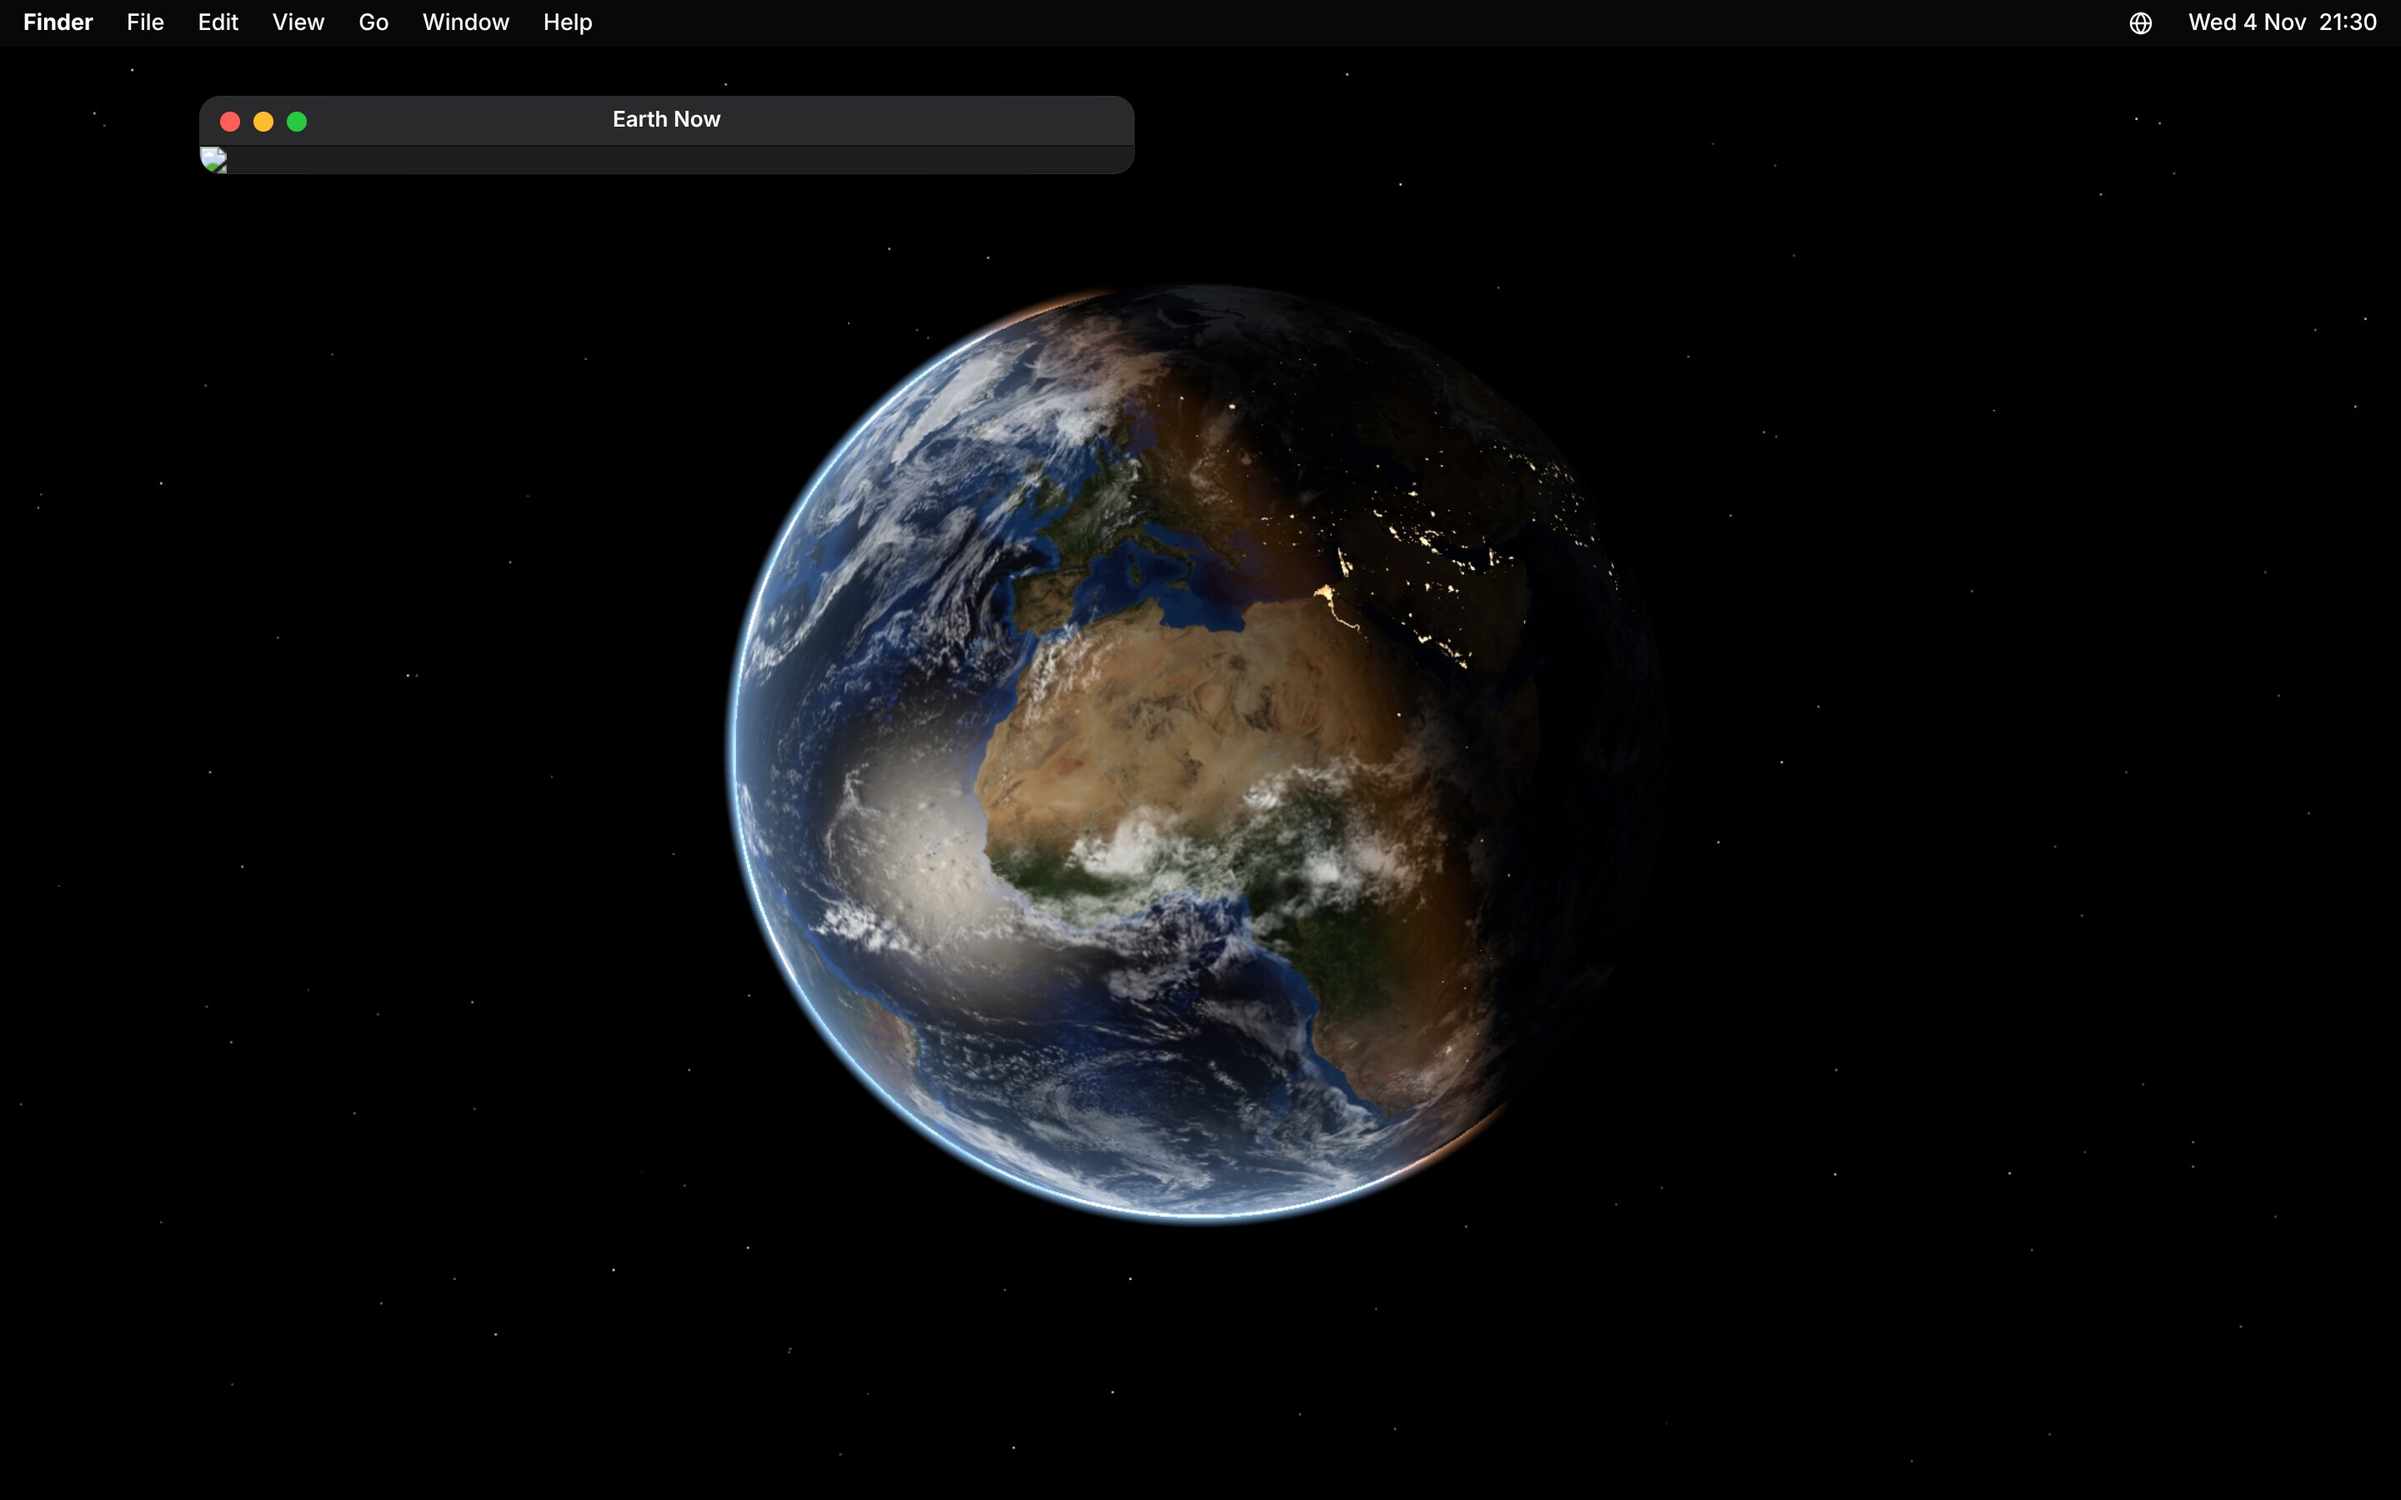
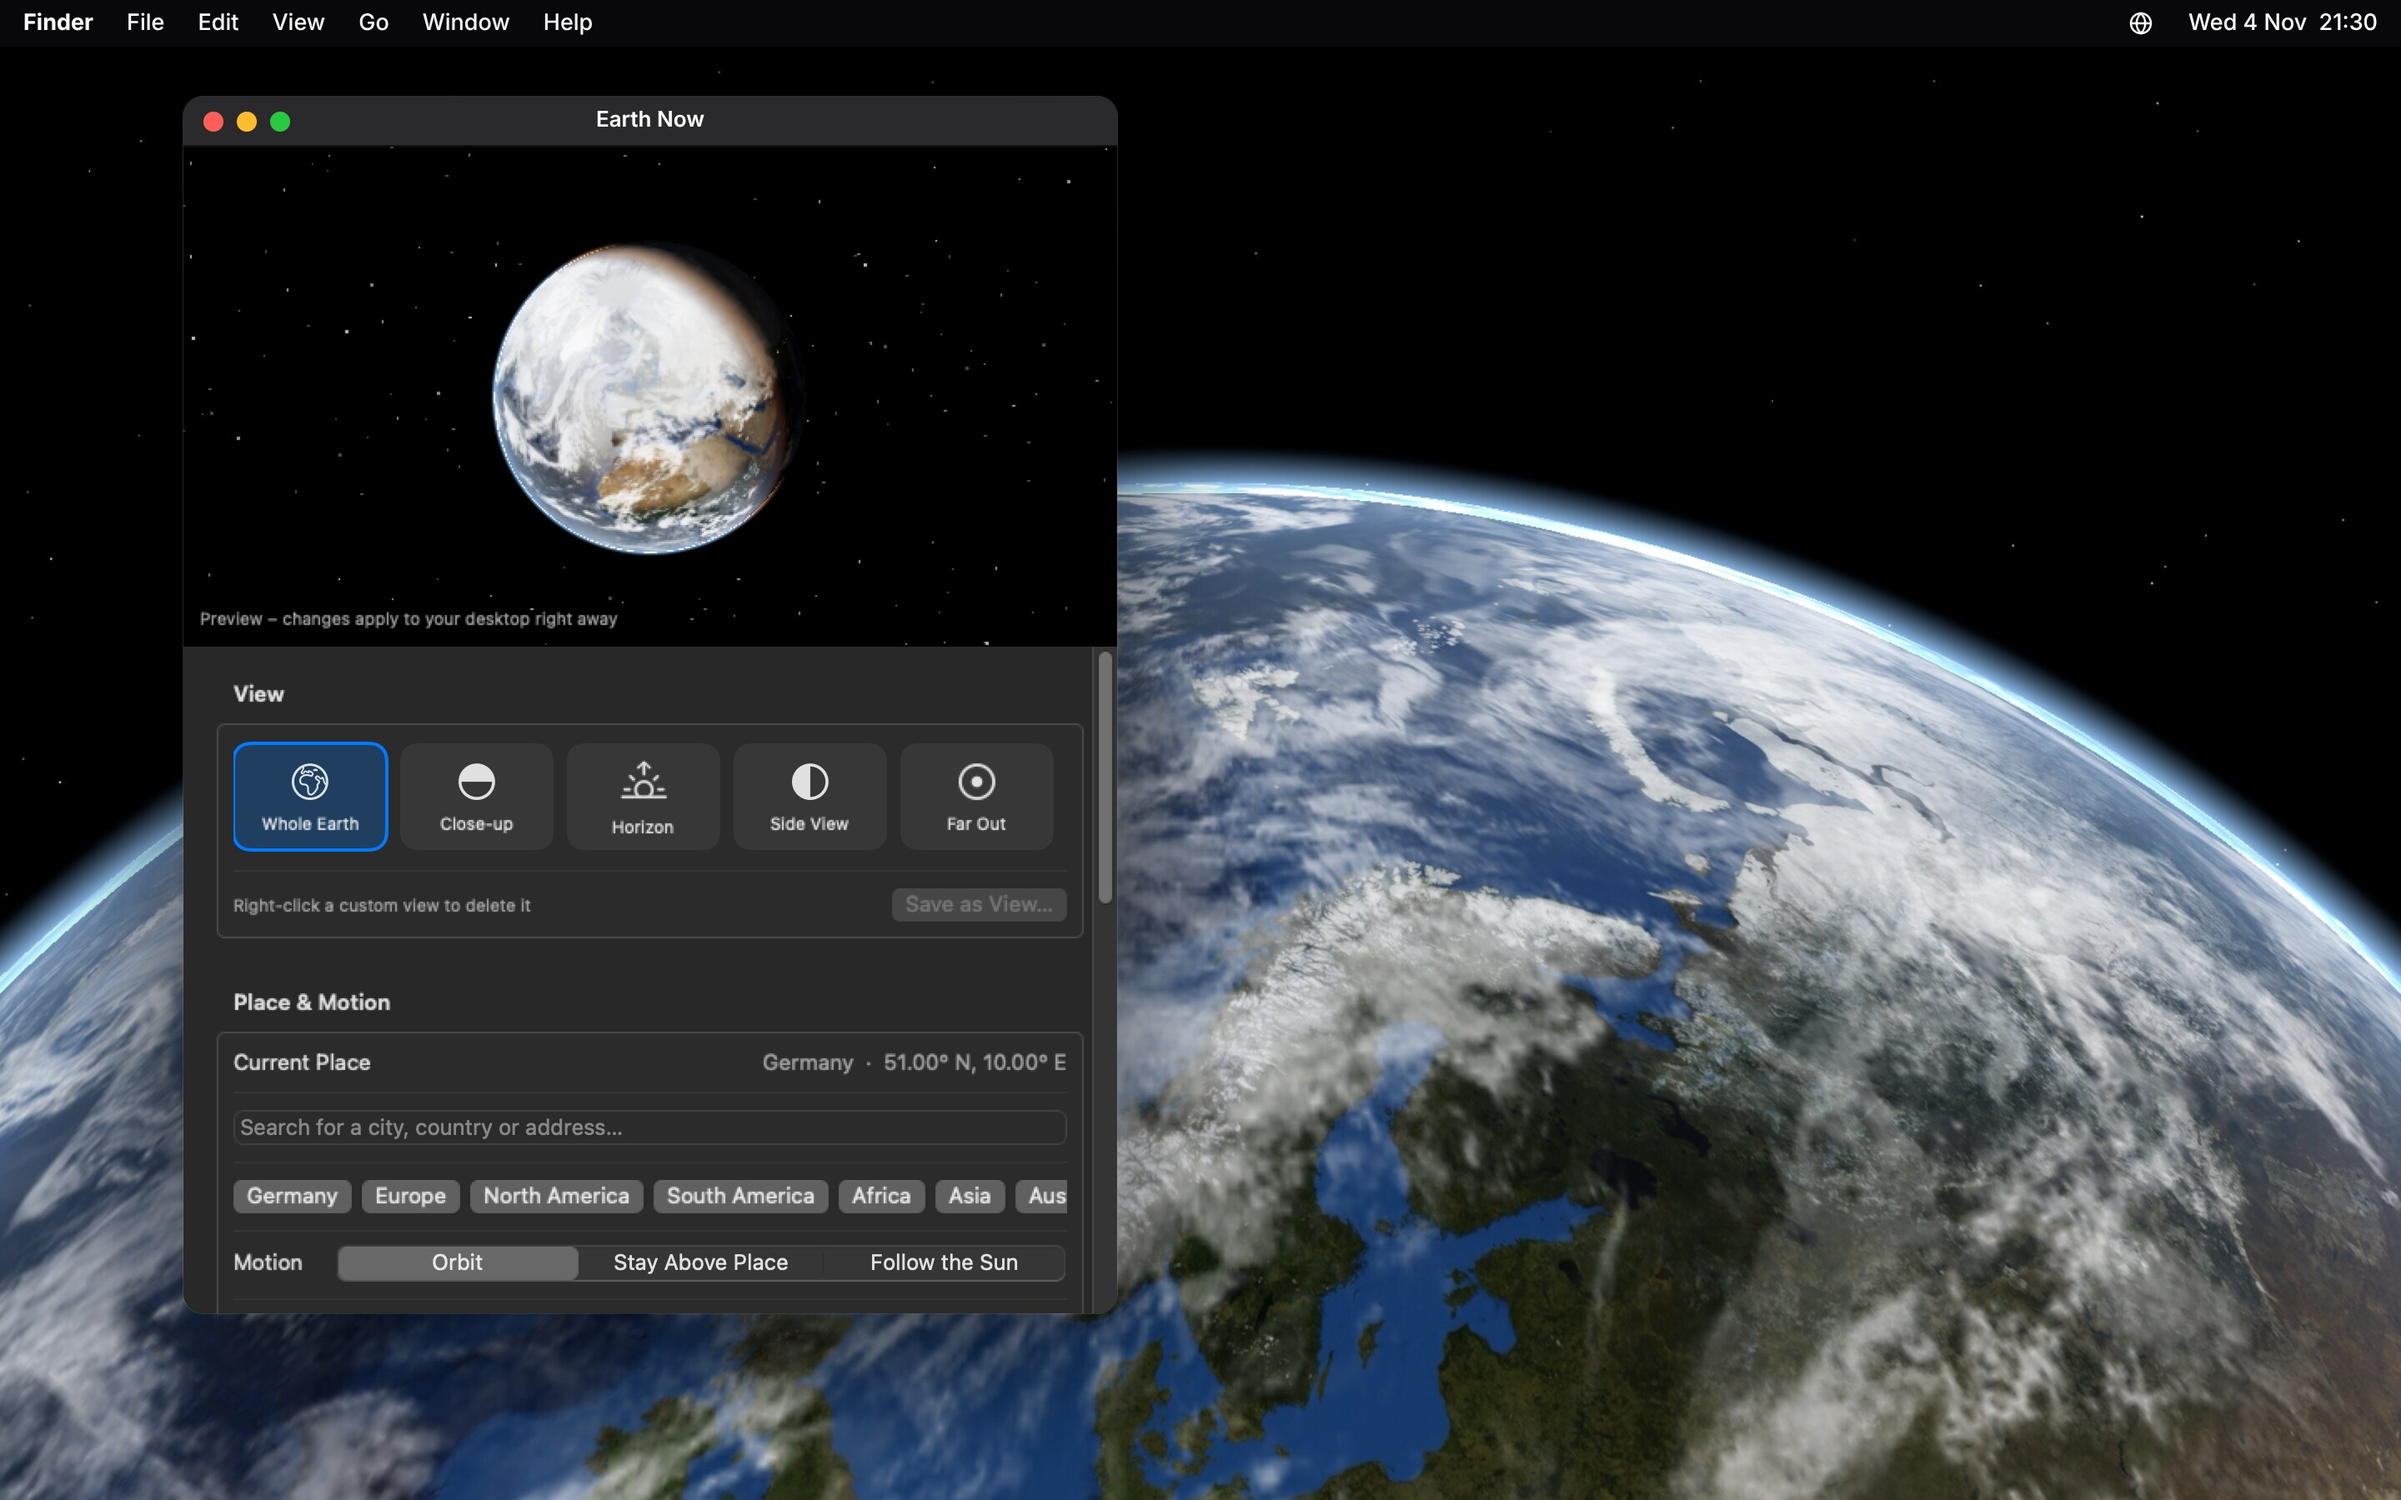
Marketing mockups with real app screenshots; social preview
Claude-Session: https://claude.ai/code/session_01M7Hy6ZUCUmo8iEq4U2N2NW

diff --git a/site/index.html b/site/index.html
@@ -291,11 +291,12 @@
              alt="A Mac desktop with the Earth seen from the side, North America in daylight, and the Earth Now menu open in the menu bar">
         <figcaption><b>Side View</b> with the menu bar menu – switch views and motion in one click.</figcaption>
       </figure>
-      <figure class="shot-main">
-        <img src="assets/screenshots/desktop-settings.jpg" width="2880" height="1800" loading="lazy"
-             alt="The Earth Now settings window with a live preview, views, place search and motion options, on top of a desktop showing the whole Earth">
-        <figcaption><b>Settings</b> with a live preview – every change shows up on your desktop right away.</figcaption>
-      </figure>
+      <div class="views" style="grid-template-columns:repeat(auto-fit,minmax(300px,1fr));margin-bottom:28px">
+        <figure><img src="assets/screenshots/desktop-settings.jpg" width="2880" height="1800" loading="lazy"
+             alt="The Earth Now settings window with a live preview, views, place search and motion options"><figcaption><b>Settings</b> with a live preview – changes show up on your desktop right away.</figcaption></figure>
+        <figure><img src="assets/screenshots/desktop-settings-display.jpg" width="2880" height="1800" loading="lazy"
+             alt="The lower part of the settings: rotation, field of view, framing, clouds and display quality"><figcaption><b>Fine-tuning</b> – framing, clouds and quality.</figcaption></figure>
+      </div>
       <div class="views">
         <figure><img src="assets/screenshots/views/whole-earth.jpg" width="2880" height="1800" loading="lazy" alt="The whole Earth with Africa and Europe in daylight and the night side to the east"><figcaption><b>Whole Earth</b> – day, night and twilight</figcaption></figure>
         <figure><img src="assets/screenshots/views/close-up.jpg" width="2880" height="1800" loading="lazy" alt="Close-up of northern Europe, Greenland and Iceland under swirling clouds"><figcaption><b>Close-up</b> – your region under real clouds</figcaption></figure>

diff --git a/README.md b/README.md
@@ -56,10 +56,9 @@ where the big storms are. It's calm, it's real, and it barely touches your batte
 | ![Horizon at sunrise](docs/screenshots/views/horizon-sunrise.jpg) **Horizon** – sunrise over the Atlantic | ![City lights](docs/screenshots/views/city-lights.jpg) **City lights** – the night side before dawn |
 | ![Side View](docs/screenshots/views/side-view.jpg) **Side View** – room for your icons | ![Far Out](docs/screenshots/views/far-out.jpg) **Far Out** – a quiet, minimal desktop |
 
-<p align="center">
-  <img src="docs/screenshots/desktop-settings.jpg" alt="Settings window with live preview" width="100%">
-  <br><em>Settings with a live preview – every change shows up on your desktop right away.</em>
-</p>
+| | |
+|---|---|
+| ![Settings](docs/screenshots/desktop-settings.jpg) **Settings** with a live preview | ![Fine-tuning](docs/screenshots/desktop-settings-display.jpg) **Fine-tuning** – framing, clouds and quality |
 
 All Earth images are real renders from Earth Now. The app screenshots are taken automatically by CI
 from the actual app.
